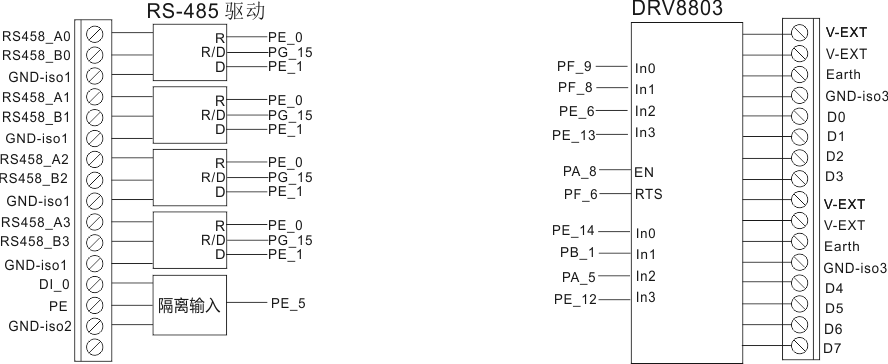
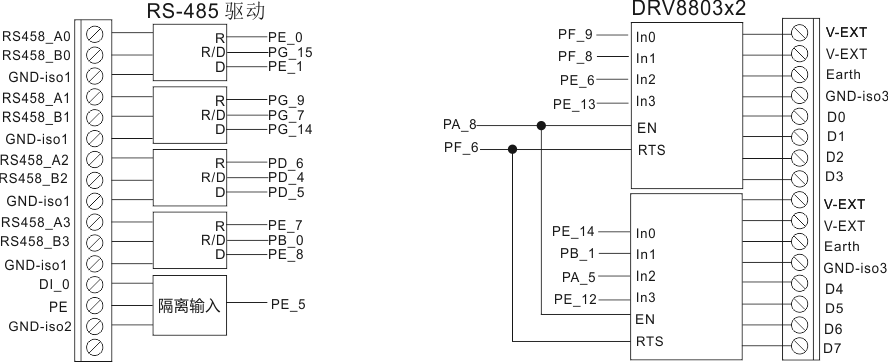
RS485-DRV8803 模块

diff --git a/hardware/M2-RS485-DRV8803.md b/hardware/M2-RS485-DRV8803.md
@@ -20,3 +20,5 @@
 - 8路 DRV8803 可以实现
     - 两个步进电机
     - 8 路继电器
+## 控制步进电机
+## 控制继电器
